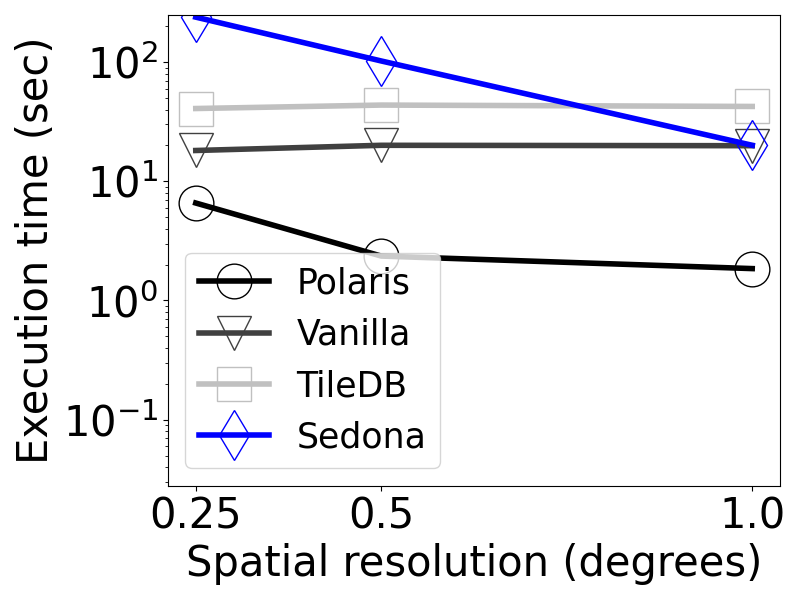
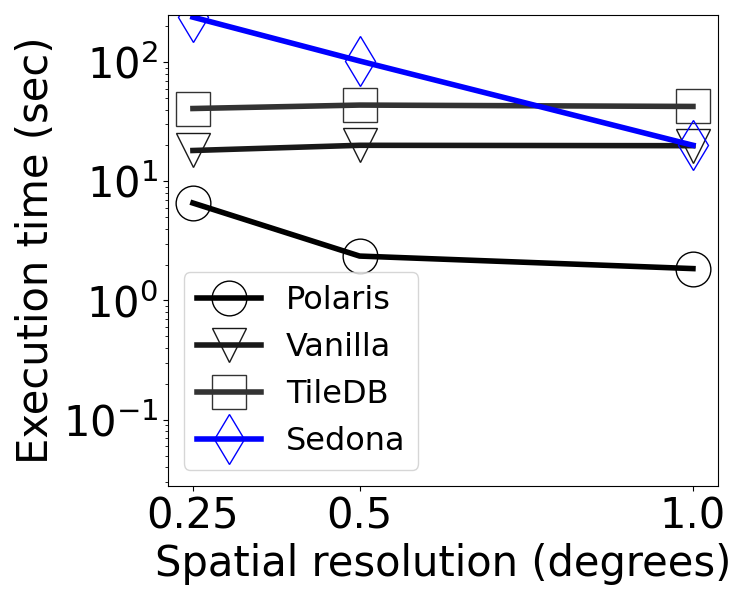
resolution final png

Changed region(s): [[0.0, 0.03, 0.9946, 0.99], [0.0311, 0.06, 0.0622, 0.36], [0.0311, 0.39, 0.0622, 0.42]]

diff --git a/plots/resolution_driver.py b/plots/resolution_driver.py
@@ -11,20 +11,29 @@ import matplotlib
 csv_file_path = "/home/uribe055/sedona_experiments/results/all_resolutions.csv"
 df = pd.read_csv(csv_file_path)
 
-cur_plot = "t_res"
-x = "s_res"
+
 line = "sys"
 y = "total_time"
 
 # Get unique plot values
-unique_plots = ["hour", "day", "month", "year"]
+# cur_plot = "t_res"
+# unique_plots = ["hour", "day", "year"]
+# tick_list = [0.25, 0.5, 1.0]
+# x = "s_res"
+# x_label = "Spatial resolution (degrees)"
+
+cur_plot = "s_res"
+unique_plots = [0.5, 1.0]
+tick_list = ["hour", "day", "month", "year"]
+x = "t_res"
+x_label = "Temporal resolution"
 
 marker_size = 25
 m_fill = "none"
 font_size = 30
 tick_font_size = 30
 tick_size = 30
-tick_list = [0.25, 0.5, 1.0]
+
 tick_labels = tick_list
 line_width = 4
 above = "bottom"
@@ -32,7 +41,6 @@ below = "top"
 y_label = "Execution time (sec)"
 viridis = matplotlib.colormaps["gray"]       # color - viridis 
 colors = [viridis(i) for i in [0, 0.10, 0.20]]
-x_label = "Spatial resolution (degrees)"
 
 # Define style dictionary based on 'line' values
 style_dict = {
@@ -50,7 +58,7 @@ legend_position = ["best", "lower left", "best", "center"]    # 'best', 'upper r
 
 # Generate and save individual plots
 for plot_value, position  in zip(unique_plots, legend_position):
-    fig, ax = plt.subplots(figsize=(8, 6))
+    fig, ax = plt.subplots(figsize=(7.4, 6))
     subset = df[df[cur_plot] == plot_value] # df[df[t_res]]==hour
     
     for line_value in subset[line].unique():
@@ -83,7 +91,9 @@ for plot_value, position  in zip(unique_plots, legend_position):
     ax.set_ylim(y_min, y_max)
     if plot_value == "day" or plot_value == "year":
         # ax.legend(fontsize=font_size-10, loc=position, bbox_to_anchor=(0.37,0.53))   # for datasets_separate
-        ax.legend(fontsize=font_size-5, loc="best")   # for datasets_averaged
+        ax.legend(fontsize=font_size-7, loc="best")   # for datasets_averaged
+    elif plot_value == 0.5 or plot_value == 1.0:
+        ax.legend(fontsize=font_size-7, loc="best") 
     else:
         # ax.legend(fontsize=font_size-10, loc=position)     # for datasets_separate
         ax.legend(fontsize=font_size, loc=position)     # for datasets_averaged
